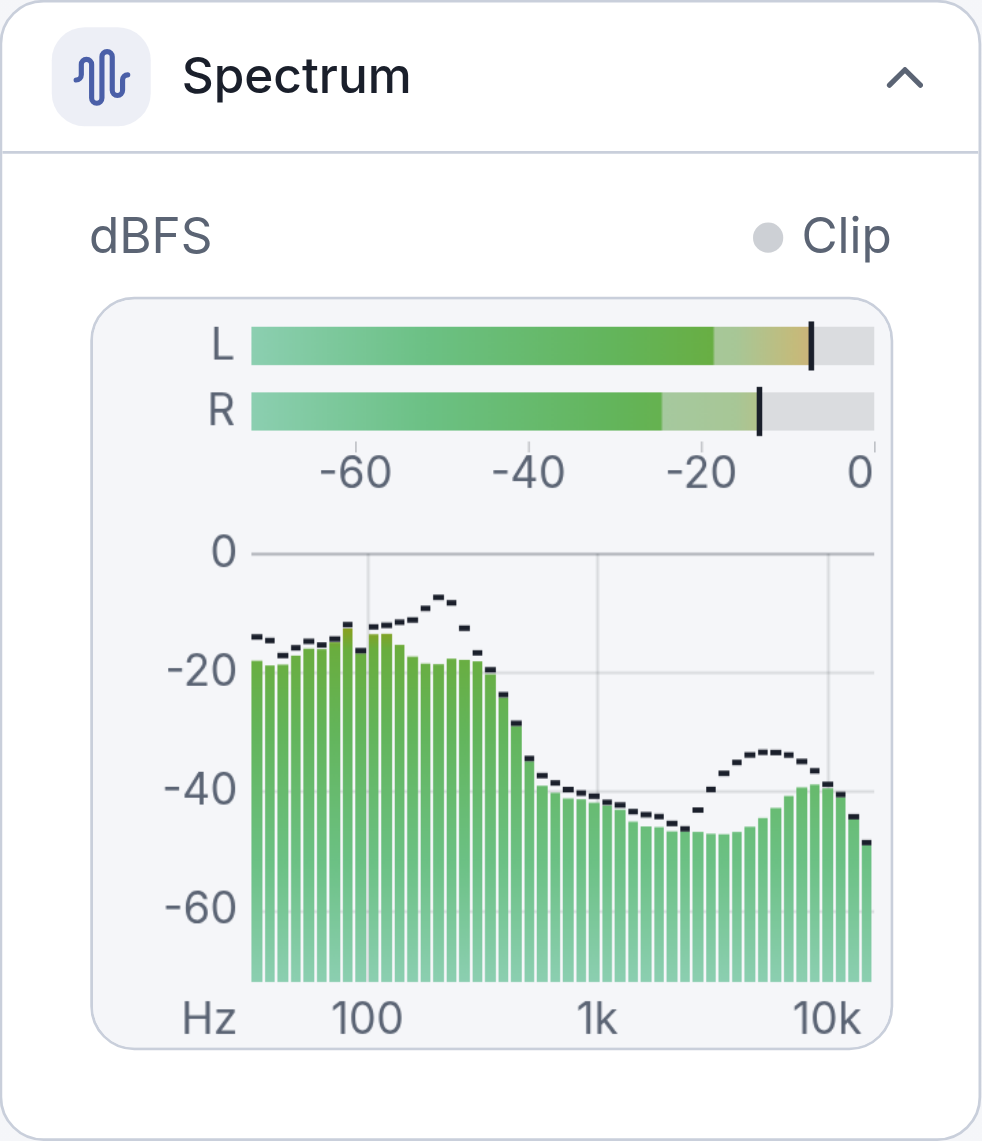
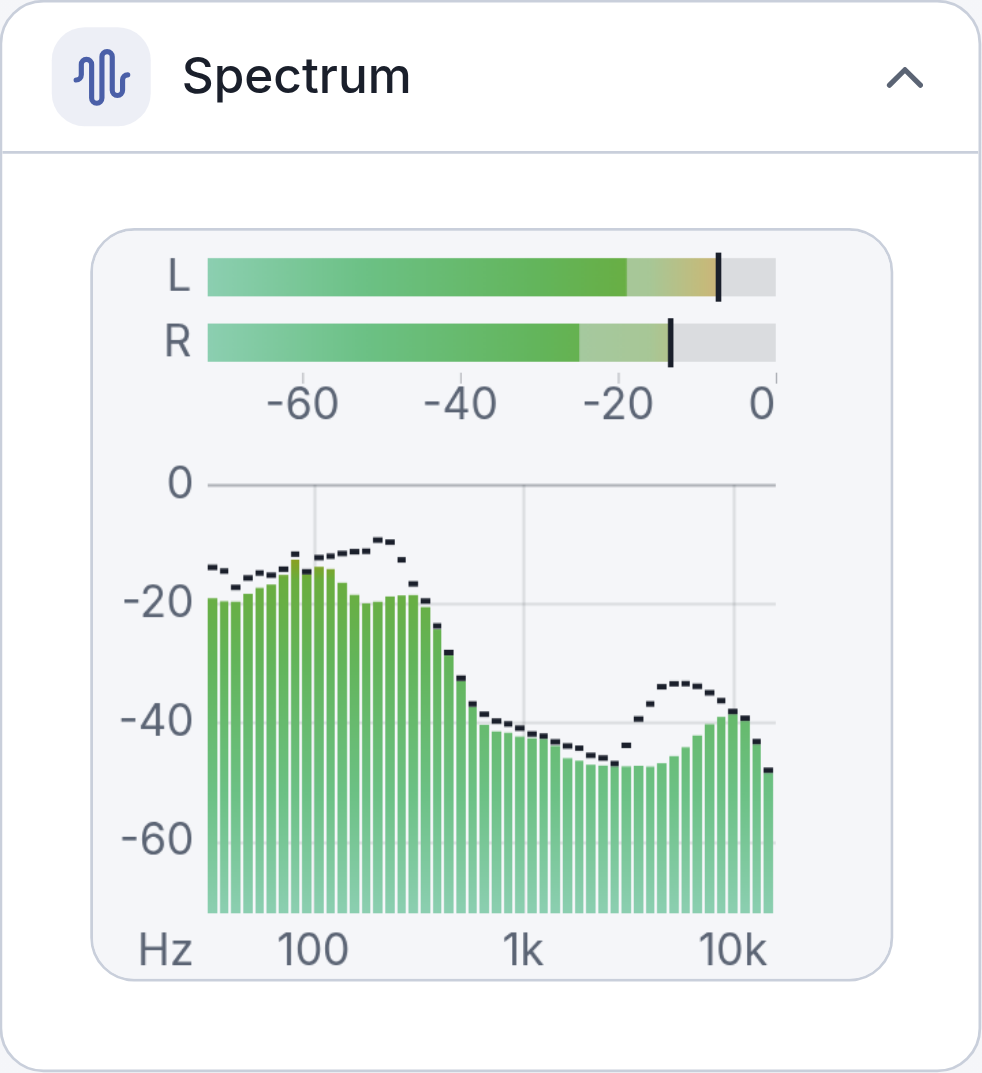
Drop the dBFS and clip row above the meters and center the plot
The dBFS caption and clip lamp row above the meters took vertical space and
is now removed. The readouts stay as screen-reader text, and the manual
explains the scale and the clip block. The plot now has the same margin on
its left and right, so the meters and the spectrum are centered in the card.
The spectrum ergonomics check waits for the section to settle before it
measures control sizes.

diff --git a/src/components/playback/SpectrumCard.tsx b/src/components/playback/SpectrumCard.tsx
@@ -17,7 +17,6 @@ import { useAvMirror } from "@/hooks/useAvMirror";
 import { useAudioFxAvailable } from "@/lib/audio/useAudioFxAvailable";
 import { SpectrumView, type SpectrumReadout } from "@/lib/audio/spectrum/spectrumView";
 import { METER_AREA_HEIGHT_PX } from "@/lib/audio/spectrum/spectrumRenderer";
-import { cn } from "@/lib/utils";
 
 export const SPECTRUM_UNAVAILABLE_MESSAGE = "Spectrum is available for sound played on this phone";
 
@@ -114,33 +113,16 @@ const SpectrumPanel = ({ soundOnPhone, paused, profile }: SpectrumPanelProps) =>
   return (
     <div className="space-y-2 p-3 pt-0" data-testid="spectrum-panel">
       <ScreenActivityWatch onChange={setOnScreen} />
-      <div className="flex items-center justify-between text-sm" data-testid="spectrum-readout">
-        <span className="text-muted-foreground">dBFS</span>
-        <span className="sr-only">
-          <span ref={channelsRef} data-testid="spectrum-channel-readout" />{" "}
-          <span className="whitespace-nowrap text-muted-foreground">
-            Level{" "}
-            <span ref={rmsRef} className="font-semibold tabular-nums text-foreground" data-testid="spectrum-rms" /> dB
-          </span>{" "}
-          <span className="whitespace-nowrap text-muted-foreground">
-            Peak{" "}
-            <span ref={peakRef} className="font-semibold tabular-nums text-foreground" data-testid="spectrum-peak" /> dB
-          </span>
-        </span>
-        <span
-          ref={clipRef}
-          data-clipping="false"
-          data-testid="spectrum-clip"
-          className={cn(
-            "inline-flex items-center gap-1.5 whitespace-nowrap text-muted-foreground",
-            "[&[data-clipping=true]]:font-semibold [&[data-clipping=true]]:text-destructive",
-          )}
-        >
-          <span
-            aria-hidden
-            className="inline-block h-2.5 w-2.5 rounded-full bg-muted-foreground/30 [[data-clipping=true]>&]:bg-destructive"
-          />
-          <span className={profile === "compact" ? "sr-only" : undefined}>Clip</span>
+      <div className="sr-only" data-testid="spectrum-readout">
+        <span ref={channelsRef} data-testid="spectrum-channel-readout" />{" "}
+        <span>
+          Level <span ref={rmsRef} data-testid="spectrum-rms" /> dB
+        </span>{" "}
+        <span>
+          Peak <span ref={peakRef} data-testid="spectrum-peak" /> dB
+        </span>{" "}
+        <span ref={clipRef} data-clipping="false" data-testid="spectrum-clip">
+          Clip
         </span>
       </div>
       <div className="relative">

diff --git a/playwright/audioFx.spec.ts b/playwright/audioFx.spec.ts
@@ -177,6 +177,8 @@ test.describe("Spectrum card and audio processing", () => {
       await expect(page.getByTestId("spectrum-rms")).not.toHaveText("");
       await expect(page.getByTestId("spectrum-peak")).not.toHaveText("");
 
+      await card.scrollIntoViewIfNeeded();
+      await page.waitForTimeout(700);
       await noHorizontalOverflow(page);
       const box = await canvas.boundingBox();
       expect(box!.width).toBeGreaterThan(profile.id === "compact" ? 250 : 600);
@@ -186,8 +188,6 @@ test.describe("Spectrum card and audio processing", () => {
       expect(measured.bodyOffenders, "Body text below the size floor").toEqual([]);
       expect(measured.targetOffenders, "Controls below the target size").toEqual([]);
 
-      await card.scrollIntoViewIfNeeded();
-      await page.waitForTimeout(700);
       await keepShot(card, `spectrum-${profile.id}-${theme}`);
       await keepShot(page, `spectrum-${profile.id}-${theme}-page`);
     });
@@ -239,7 +239,7 @@ test.describe("Spectrum card and audio processing", () => {
     await expect(page.getByTestId("spectrum-message")).toHaveCount(0, { timeout: 5000 });
   });
 
-  test("the clip lamp lights while the plugin reports clipping and releases afterwards", async ({ page }) => {
+  test("the clip state follows the plugin's clipping report and releases afterwards", async ({ page }) => {
     await installAudioFxMock(page);
     await installLiveViewAudioStub(page);
     await page.setViewportSize(DISPLAY_PROFILE_VIEWPORTS.compact.viewport);

diff --git a/tests/unit/audio/spectrum/spectrumCard.test.tsx b/tests/unit/audio/spectrum/spectrumCard.test.tsx
@@ -188,7 +188,7 @@ describe("SpectrumCard", () => {
     expect(created.views).toHaveLength(1);
     expect(lastOptions().profile).toBe("compact");
     expect(screen.getByTestId("spectrum-canvas")).toHaveStyle({ height: "194px" });
-    expect(screen.getByText("Clip")).toHaveClass("sr-only");
+    expect(screen.getByTestId("spectrum-readout")).toHaveClass("sr-only");
     const compactView = lastView();
     state.profile = "expanded";
     component.rerender(<SpectrumCard soundOnPhone paused={false} />);
@@ -197,7 +197,6 @@ describe("SpectrumCard", () => {
     expect(lastOptions().profile).toBe("expanded");
     expect(lastView().setState).toHaveBeenLastCalledWith({ visible: true, paused: false });
     expect(screen.getByTestId("spectrum-canvas")).toHaveStyle({ height: "324px" });
-    expect(screen.getByText("Clip")).not.toHaveClass("sr-only");
     state.profile = "unheard-of";
     component.rerender(<SpectrumCard soundOnPhone paused={false} />);
     expect(screen.getByTestId("spectrum-canvas")).toHaveStyle({ height: "274px" });

diff --git a/src/lib/audio/spectrum/spectrumRenderer.ts b/src/lib/audio/spectrum/spectrumRenderer.ts
@@ -48,10 +48,10 @@ export interface SpectrumLayout {
   showMinorLabels: boolean;
 }
 
-/** Splits the canvas into the plot and the margins that hold the level and frequency labels. */
+/** Splits the canvas into the plot and two equal side margins; the left one holds the labels. */
 export const computeLayout = (width: number, height: number, fontPx: number): SpectrumLayout => {
-  const plotLeft = Math.ceil(fontPx * 3.6);
-  const plotRight = width - 6;
+  const plotLeft = Math.ceil(fontPx * 2.6);
+  const plotRight = width - plotLeft;
   const plotTop = METER_AREA_HEIGHT_PX + Math.ceil(fontPx / 2) + 1;
   const plotBottom = height - Math.ceil(fontPx * 1.5);
   return {

diff --git a/tests/unit/audio/spectrum/spectrumRenderer.test.ts b/tests/unit/audio/spectrum/spectrumRenderer.test.ts
@@ -74,6 +74,17 @@ const stateWith = (bars: number, level: number, peak: number) => {
 };
 
 describe("spectrum renderer", () => {
+  it("leaves the same margin on both sides of the plot", () => {
+    for (const [width, fontPx] of [
+      [192, 14],
+      [300, 14],
+      [420, 16],
+    ]) {
+      const layout = computeLayout(width, 234, fontPx);
+      expect(layout.width - layout.plotRight).toBe(layout.plotLeft);
+    }
+  });
+
   it("stacks left and right channel meters above the frequency plot with a dB scale that rises from left to right", () => {
     const t = makeContext();
     const layout = computeLayout(300, 234, 14);

diff --git a/tests/unit/audio/spectrum/spectrumView.test.ts b/tests/unit/audio/spectrum/spectrumView.test.ts
@@ -261,7 +261,9 @@ describe("SpectrumView", () => {
     await t.advance(120);
     const capWidth = 3;
     const caps = t.ctx.fills.filter((f) => f.h === 18 && f.y === 8);
-    expect(caps.some((f) => Math.abs(f.x + f.w - 294) <= capWidth)).toBe(true);
+    expect(
+      caps.some((f) => Math.abs(f.x + f.w - spectrumRenderer.computeLayout(300, 234, 14).plotRight) <= capWidth),
+    ).toBe(true);
     t.view.dispose();
   });
 

diff --git a/docs/manual/c64commander/c64commander-manual.md b/docs/manual/c64commander/c64commander-manual.md
@@ -558,7 +558,7 @@ There is no playlist to build, and nothing downloads while you listen. Once the 
 
 #### The spectrum and audio processing
 
-On an Android phone or tablet, the **Spectrum** card on Play shows how loud the sound is at every pitch, as it plays. Bass is on the left and treble on the right. Each bar is colored by its level, green for most levels, turning yellow, orange and red as the level nears full scale, and the small cap above a bar is that pitch's recent peak. Above the spectrum, each audio output channel has one horizontal meter that grows from left to right toward 0: the solid fill shows its average level, a translucent extension shows its instantaneous peak, and a thin marker holds its recent highest peak. A red block at the right end of a meter shows that this channel reached full scale. **L** and **R** are the left and right playback channels, including the mix from multiple SID chips. The rows stay in place even when both channels match. The shared scale is in dBFS, where 0 is full scale; the **Clip** lamp lights briefly when a sample reaches that limit. When a tune plays on your phone or tablet, the bars follow what its speaker is playing at that moment, after the audio processing described below. When Live View plays your C64's sound here, the bars follow your C64's own sound as it arrives, before that processing, so they keep time with your C64 rather than with the copy your phone or tablet plays a moment later.
+On an Android phone or tablet, the **Spectrum** card on Play shows how loud the sound is at every pitch, as it plays. Bass is on the left and treble on the right. Each bar is colored by its level, green for most levels, turning yellow, orange and red as the level nears full scale, and the small cap above a bar is that pitch's recent peak. Above the spectrum, each audio output channel has one horizontal meter that grows from left to right toward 0: the solid fill shows its average level, a translucent extension shows its instantaneous peak, and a thin marker holds its recent highest peak. A red block at the right end of a meter lights briefly when this channel reaches full scale. **L** and **R** are the left and right playback channels, including the mix from multiple SID chips. The rows stay in place even when both channels match. The scale under the meters is in dBFS, where 0 is full scale and the loudest a digital signal can be. When a tune plays on your phone or tablet, the bars follow what its speaker is playing at that moment, after the audio processing described below. When Live View plays your C64's sound here, the bars follow your C64's own sound as it arrives, before that processing, so they keep time with your C64 rather than with the copy your phone or tablet plays a moment later.
 
 ![The Spectrum card while a tune plays on the phone](../../img/app/play/spectrum/profiles/medium/01-spectrum.png)
 

diff --git a/docs/manual/c64u-remote/c64u-remote-manual.md b/docs/manual/c64u-remote/c64u-remote-manual.md
@@ -556,7 +556,7 @@ There is no playlist to build, and nothing downloads while you listen. Once the 
 
 #### The spectrum and audio processing
 
-On an Android phone, the **Spectrum** card on Play shows how loud the sound is at every pitch, as it plays. Bass is on the left and treble on the right. Each bar is colored by its level, green for most levels, turning yellow, orange and red as the level nears full scale, and the small cap above a bar is that pitch's recent peak. Above the spectrum, each audio output channel has one horizontal meter that grows from left to right toward 0: the solid fill shows its average level, a translucent extension shows its instantaneous peak, and a thin marker holds its recent highest peak. A red block at the right end of a meter shows that this channel reached full scale. **L** and **R** are the left and right playback channels, including the mix from multiple SID chips. The rows stay in place even when both channels match. The shared scale is in dBFS, where 0 is full scale; the **Clip** lamp lights briefly when a sample reaches that limit. When a tune plays on your phone, the bars follow what its speaker is playing at that moment, after the audio processing described below. When Live View plays your C64's sound here, the bars follow your C64's own sound as it arrives, before that processing, so they keep time with your C64 rather than with the copy your phone plays a moment later.
+On an Android phone, the **Spectrum** card on Play shows how loud the sound is at every pitch, as it plays. Bass is on the left and treble on the right. Each bar is colored by its level, green for most levels, turning yellow, orange and red as the level nears full scale, and the small cap above a bar is that pitch's recent peak. Above the spectrum, each audio output channel has one horizontal meter that grows from left to right toward 0: the solid fill shows its average level, a translucent extension shows its instantaneous peak, and a thin marker holds its recent highest peak. A red block at the right end of a meter lights briefly when this channel reaches full scale. **L** and **R** are the left and right playback channels, including the mix from multiple SID chips. The rows stay in place even when both channels match. The scale under the meters is in dBFS, where 0 is full scale and the loudest a digital signal can be. When a tune plays on your phone, the bars follow what its speaker is playing at that moment, after the audio processing described below. When Live View plays your C64's sound here, the bars follow your C64's own sound as it arrives, before that processing, so they keep time with your C64 rather than with the copy your phone plays a moment later.
 
 ![The Spectrum card while a tune plays on the phone](../../img/app/play/spectrum/profiles/compact/01-spectrum.png)
 

diff --git a/docs/cta-inventory.md b/docs/cta-inventory.md
@@ -480,7 +480,7 @@ Listed below in the order they are rendered and walked by the focus ring.
   growing from left to right toward 0 dBFS, with a red block when that channel clips. Matching stereo
   levels do not collapse the rows. Older bridges show one aggregate Mix meter. The body holds only
   display elements (`spectrum-canvas`, `spectrum-channel-readout`, `spectrum-rms`, `spectrum-peak`,
-  `spectrum-clip`, `spectrum-message`), so it adds one control to the page.
+  `spectrum-clip`, `spectrum-message`; the readout elements are screen-reader only), so it adds one control to the page.
 
 ### 4.3 Disks (`/disks`)
 
